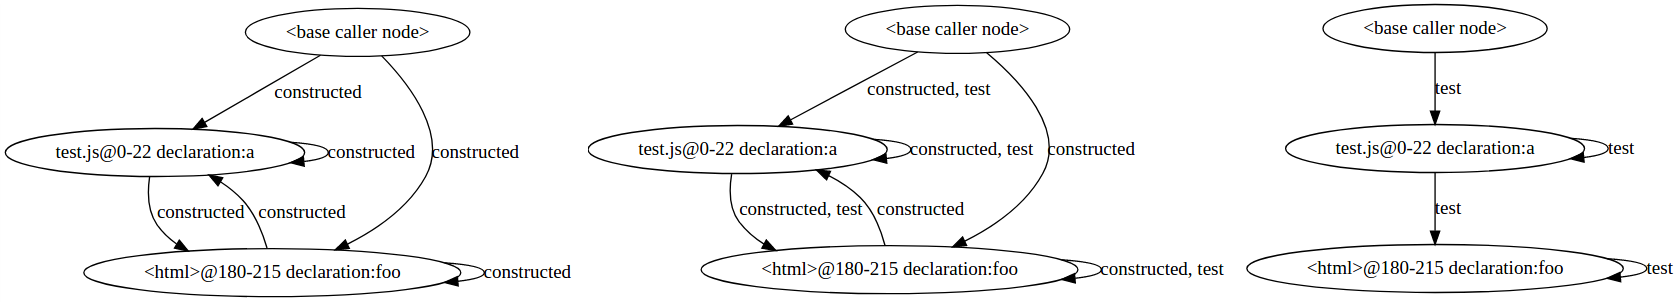
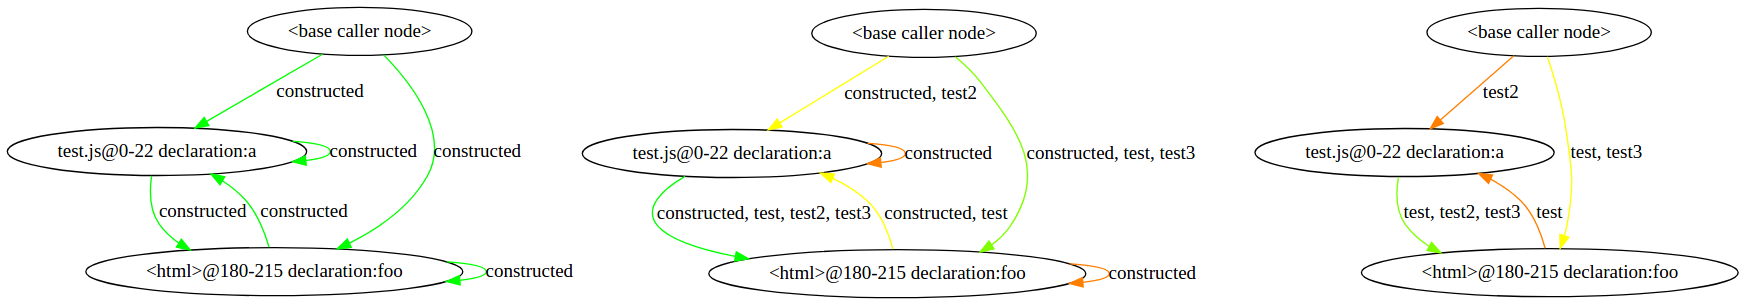
Updated graph_tools to display edge colors based on percent of algorithms marks, added option to not remove edges

diff --git a/hybrid/graph_tools.js b/hybrid/graph_tools.js
@@ -122,6 +122,66 @@ function edge_name(value, fingerprints)
 }
 
 
+function get_percentage_color(count, max)
+{
+	// Adapted from https://stackoverflow.com/questions/7128675/from-green-to-red-color-depend-on-percentage/7128796#7128796
+
+	let color_bands =
+	[
+		{ percent: 0.0, color: { red: 0xff, green: 0x00, blue: 0x00 } },
+		{ percent: 0.5, color: { red: 0xff, green: 0xff, blue: 0x00 } },
+		{ percent: 1.0, color: { red: 0x00, green: 0xff, blue: 0x00 } }
+	];
+
+	let color_index = 0,
+	    percent = count / max;
+
+	for(let i = 1; i <= color_bands.length - 1; i++)
+	{
+		if(percent <= color_bands[i].percent)
+		{
+			color_index = i;
+			break;
+		}
+	}
+
+	let lower = color_bands[color_index - 1],
+	    upper = color_bands[color_index];
+
+	let range = upper.percent - lower.percent,
+	    range_percent = (percent - lower.percent) / range;
+
+	let percent_lower = 1 - range_percent,
+	    percent_upper = range_percent;
+
+	let color =
+	{
+		red:	Math.floor(lower.color.red * percent_lower + upper.color.red * percent_upper),
+		green:	Math.floor(lower.color.green * percent_lower + upper.color.green * percent_upper),
+		blue:	Math.floor(lower.color.blue * percent_lower + upper.color.blue * percent_upper)
+	};
+
+	let hex =
+	[
+		('0' + color.red.toString(16)).slice(-2),
+		('0' + color.green.toString(16)).slice(-2),
+		('0' + color.blue.toString(16)).slice(-2)
+	];
+
+	return '#' + hex.join('');
+}
+
+
+function number_bits_set(i)
+{
+	// Adapted from https://stackoverflow.com/questions/109023/how-to-count-the-number-of-set-bits-in-a-32-bit-integer/109025#109025
+
+	i = i - ((i >> 1) & 0x55555555);
+	i = (i & 0x33333333) + ((i >> 2) & 0x33333333);
+	return (((i + (i >> 4)) & 0x0F0F0F0F) * 0x01010101) >> 24;
+}
+
+
 function output_function_graph(nodes, fingerprints)
 {
 	let output = ['digraph functiongraph'];
@@ -135,7 +195,15 @@ function output_function_graph(nodes, fingerprints)
 		node.get_edges().forEach(function(edge)
 		{
 			count++;
-			output.push('\t"' + node.get_data() + '" -> "' + edge.get_to().get_data() + '" [label="' + edge_name( edge.get_type(), fingerprints ) + '"];');
+
+			let name = edge_name( edge.get_type(), fingerprints );
+
+			let max = fingerprints.length,
+			    bits_set = number_bits_set(edge.get_type());
+
+			let color = get_percentage_color( bits_set, max);
+
+			output.push('\t"' + node.get_data() + '" -> "' + edge.get_to().get_data() + '" [label="' + name + '" color="' + color + '"];');
 		});
 
 		if(count == 0)

diff --git a/hybrid/hybrid.js b/hybrid/hybrid.js
@@ -35,7 +35,9 @@ try
 
 		{ name: 'verbose', type: Boolean, alias: 'v' },
 
-		{ name: 'algorithm', type: String, multiple: true, alias: 'a' }
+		{ name: 'algorithm', type: String, multiple: true, alias: 'a' },
+
+		{ name: 'noremove', type: Boolean, alias: 'n' }
 	]);
 }catch(exception)
 {
@@ -60,7 +62,8 @@ let settings =
 	csvfile: 'output.csv',
 	graph: false,
 	graphfile: 'output.dot',
-	algorithm: []
+	algorithm: [],
+	noremove: false
 }.extend(options);
 
 
@@ -115,7 +118,8 @@ try
 	jdce.run({
 		directory: settings.directory,
 		html_path: settings.html_path,
-		algorithm: settings.algorithm
+		algorithm: settings.algorithm,
+		noremove: settings.noremove
 	}, function(results)
 	{
 		// If the CSV option was set, output result data to the csv file (see 'csv' above).
@@ -132,6 +136,7 @@ try
 
 		if( settings.verbose )
 		{
+			delete results.graph;
 			console.log(results);
 		}
 	});

diff --git a/hybrid/jdce.js b/hybrid/jdce.js
@@ -131,7 +131,10 @@ module.exports =
 		async_loop(algorithms.functions, algorithm_settings, function()
 		{
 			// Once we're done with all the algorithms, remove any edge that was constructed.
-			nodes = GraphTools.remove_constructed_edges(nodes, CONSTRUCTED_EDGE.value);
+			if(!settings.noremove)
+			{
+				nodes = GraphTools.remove_constructed_edges(nodes, CONSTRUCTED_EDGE.value);
+			}
 
 			let disconnected_nodes = GraphTools.get_disconnected_nodes(nodes);
 

diff --git a/hybrid/README.md b/hybrid/README.md
@@ -35,6 +35,7 @@ _directory_ is the directory the tool is run upon (mandatory); this should be a 
 | --graph      | -g    | Enable function graph output.                           |                     |
 | --graphfile  | -d    | Specify graph (DOT) output location (only with --graph) | output.dot          |
 | --algorithm  | -a    | Specify algorithms (multiple allowed, space separated). |                     |
+| --noremove   | -n    | Don't remove uncalled nodes                             |                     |
 
 
 The following algorithms are available by default:
